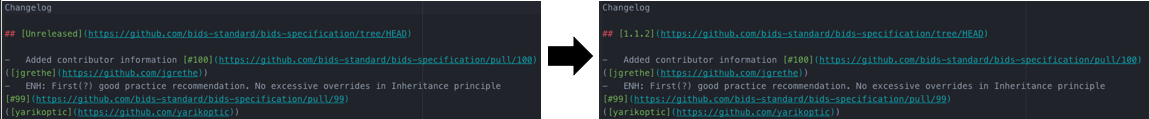
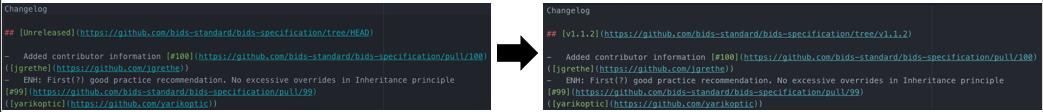
Update Release_Protocol.md

diff --git a/Release_Protocol.md b/Release_Protocol.md
@@ -6,7 +6,7 @@ When a release pull request is ready to be opened, please follow this procedure.
 
 Please make sure your fork is the most up to date version
 
-### 2. Change 'Unreleased' to the version number in the src/CHANGES.md file. One may commit this to their fork.
+### 2. Change 'Unreleased' to the version number and change the path 'HEAD' to the version number in the src/CHANGES.md file. One may commit this to their fork.
 
 This process is figured below ![Unreleased-to-Version](release_images/Unreleased-to-Version.png "Unreleased-to-Version")
 
@@ -15,7 +15,7 @@ Important note: The pull request title **needs** to follow this protocol. REL: v
 
 ### This will open a period of discussion for 5 business days regarding if we are ready to release. This will also freeze all pull request merging.
 
-If we determine we are ready to release, please have the PR submitter add an additional commit with the date in year-month-date format in parentheses after the version of the date of merging (not opening) (i.e. it should read 1.1.2 (2018-12-28)) and merge this PR. This will mark a new release. On the same day, please also do a github release. To do this please see below.
+If we determine we are ready to release, please have the PR submitter add an additional commit with the date in year-month-date format in parentheses after the version of the date of merging (not opening) (i.e. it should read v1.1.2 (2018-12-28)) and merge this PR. This will mark a new release. On the same day, please also do a github release. To do this please see below.
 
 ![GH-release-1](release_images/GH-release_1.png "GH-release-1")
 
